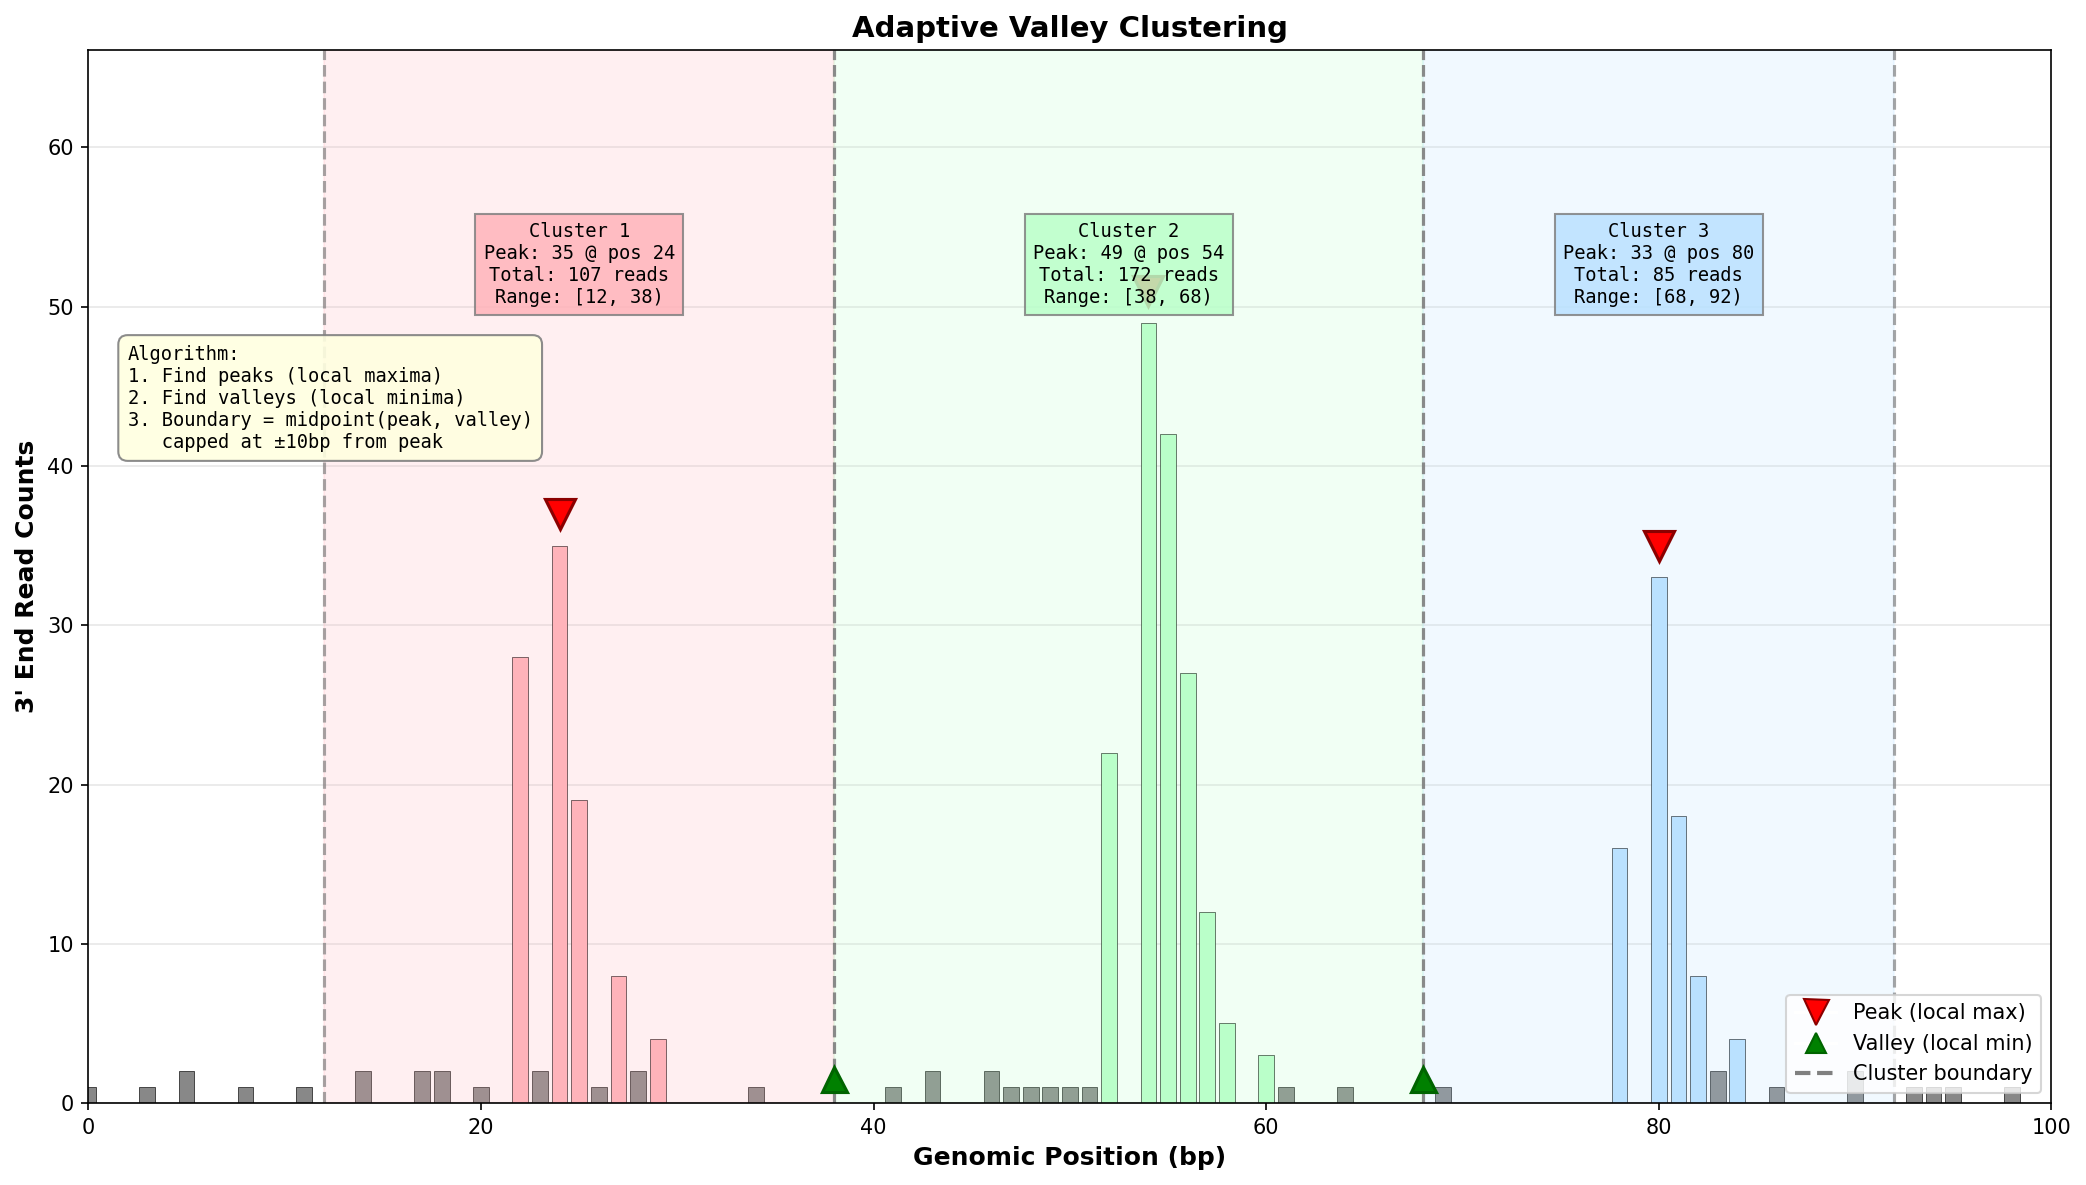
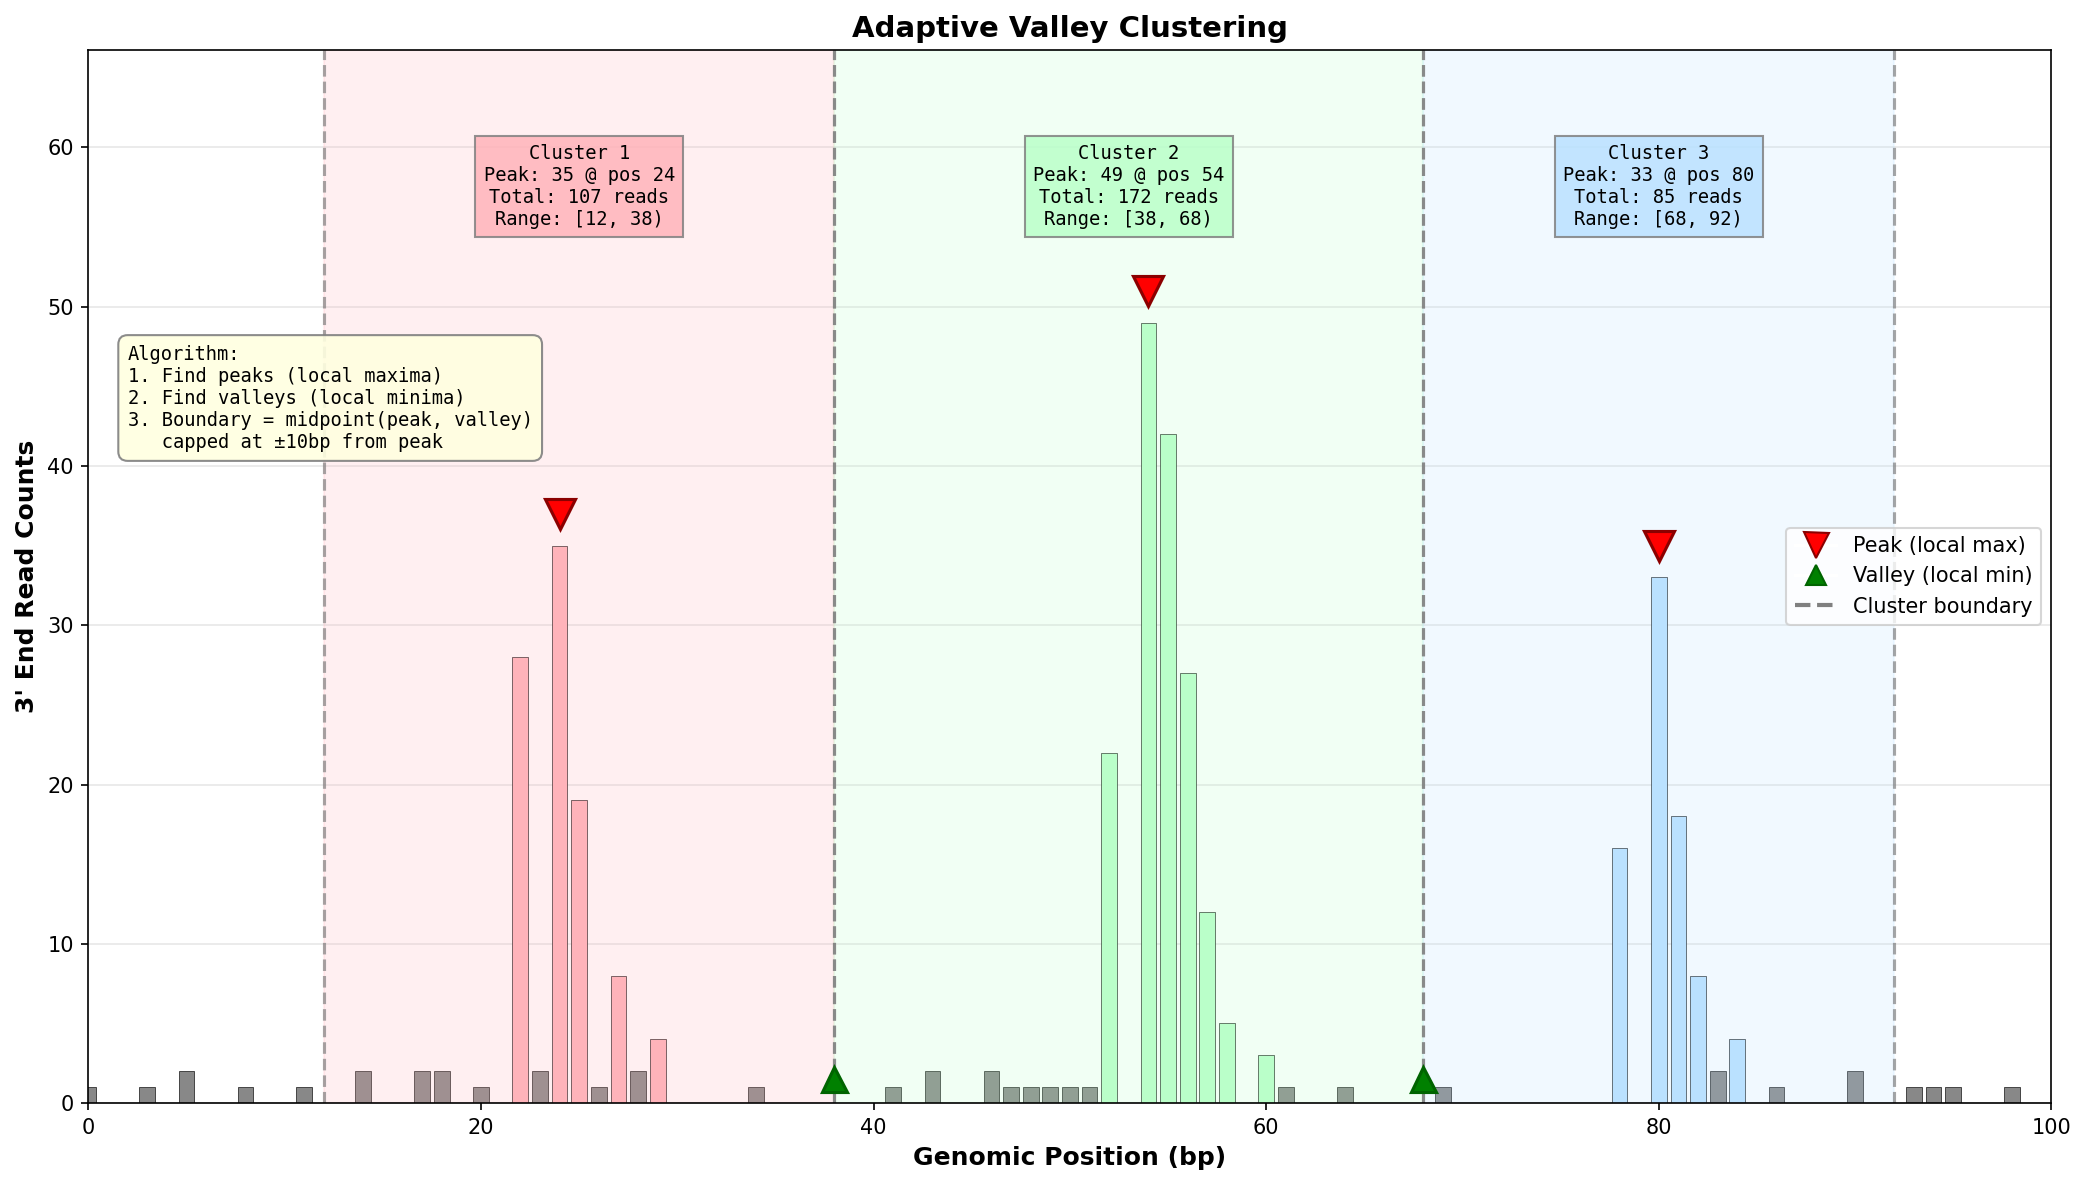
Fix adaptive clustering figure: move labels up, reposition legend

diff --git a/scripts/plot_oligo_a_spreading.py b/scripts/plot_oligo_a_spreading.py
@@ -395,9 +395,9 @@ def create_adaptive_clustering_visualization():
                    f'Total: {total_signal} reads\n' \
                    f'Range: [{start}, {end})'
 
-        # Position info box above cluster
+        # Position info box above cluster (raised to avoid valley markers)
         center_x = (start + end) / 2
-        ax.text(center_x, max(counts) * 1.02, info_text, ha='center', va='bottom', fontsize=9,
+        ax.text(center_x, max(counts) * 1.12, info_text, ha='center', va='bottom', fontsize=9,
                 bbox=dict(facecolor=cluster["color"], alpha=0.85, edgecolor='gray', pad=4),
                 family='monospace')
 
@@ -415,7 +415,7 @@ def create_adaptive_clustering_visualization():
                markeredgecolor='darkgreen', markersize=10, label='Valley (local min)'),
         Line2D([0], [0], color='gray', linestyle='--', linewidth=2, label='Cluster boundary'),
     ]
-    ax.legend(handles=legend_elements, loc='lower right', fontsize=10)
+    ax.legend(handles=legend_elements, loc='center right', fontsize=10)
 
     # Add algorithm description box
     textstr = '\n'.join([
